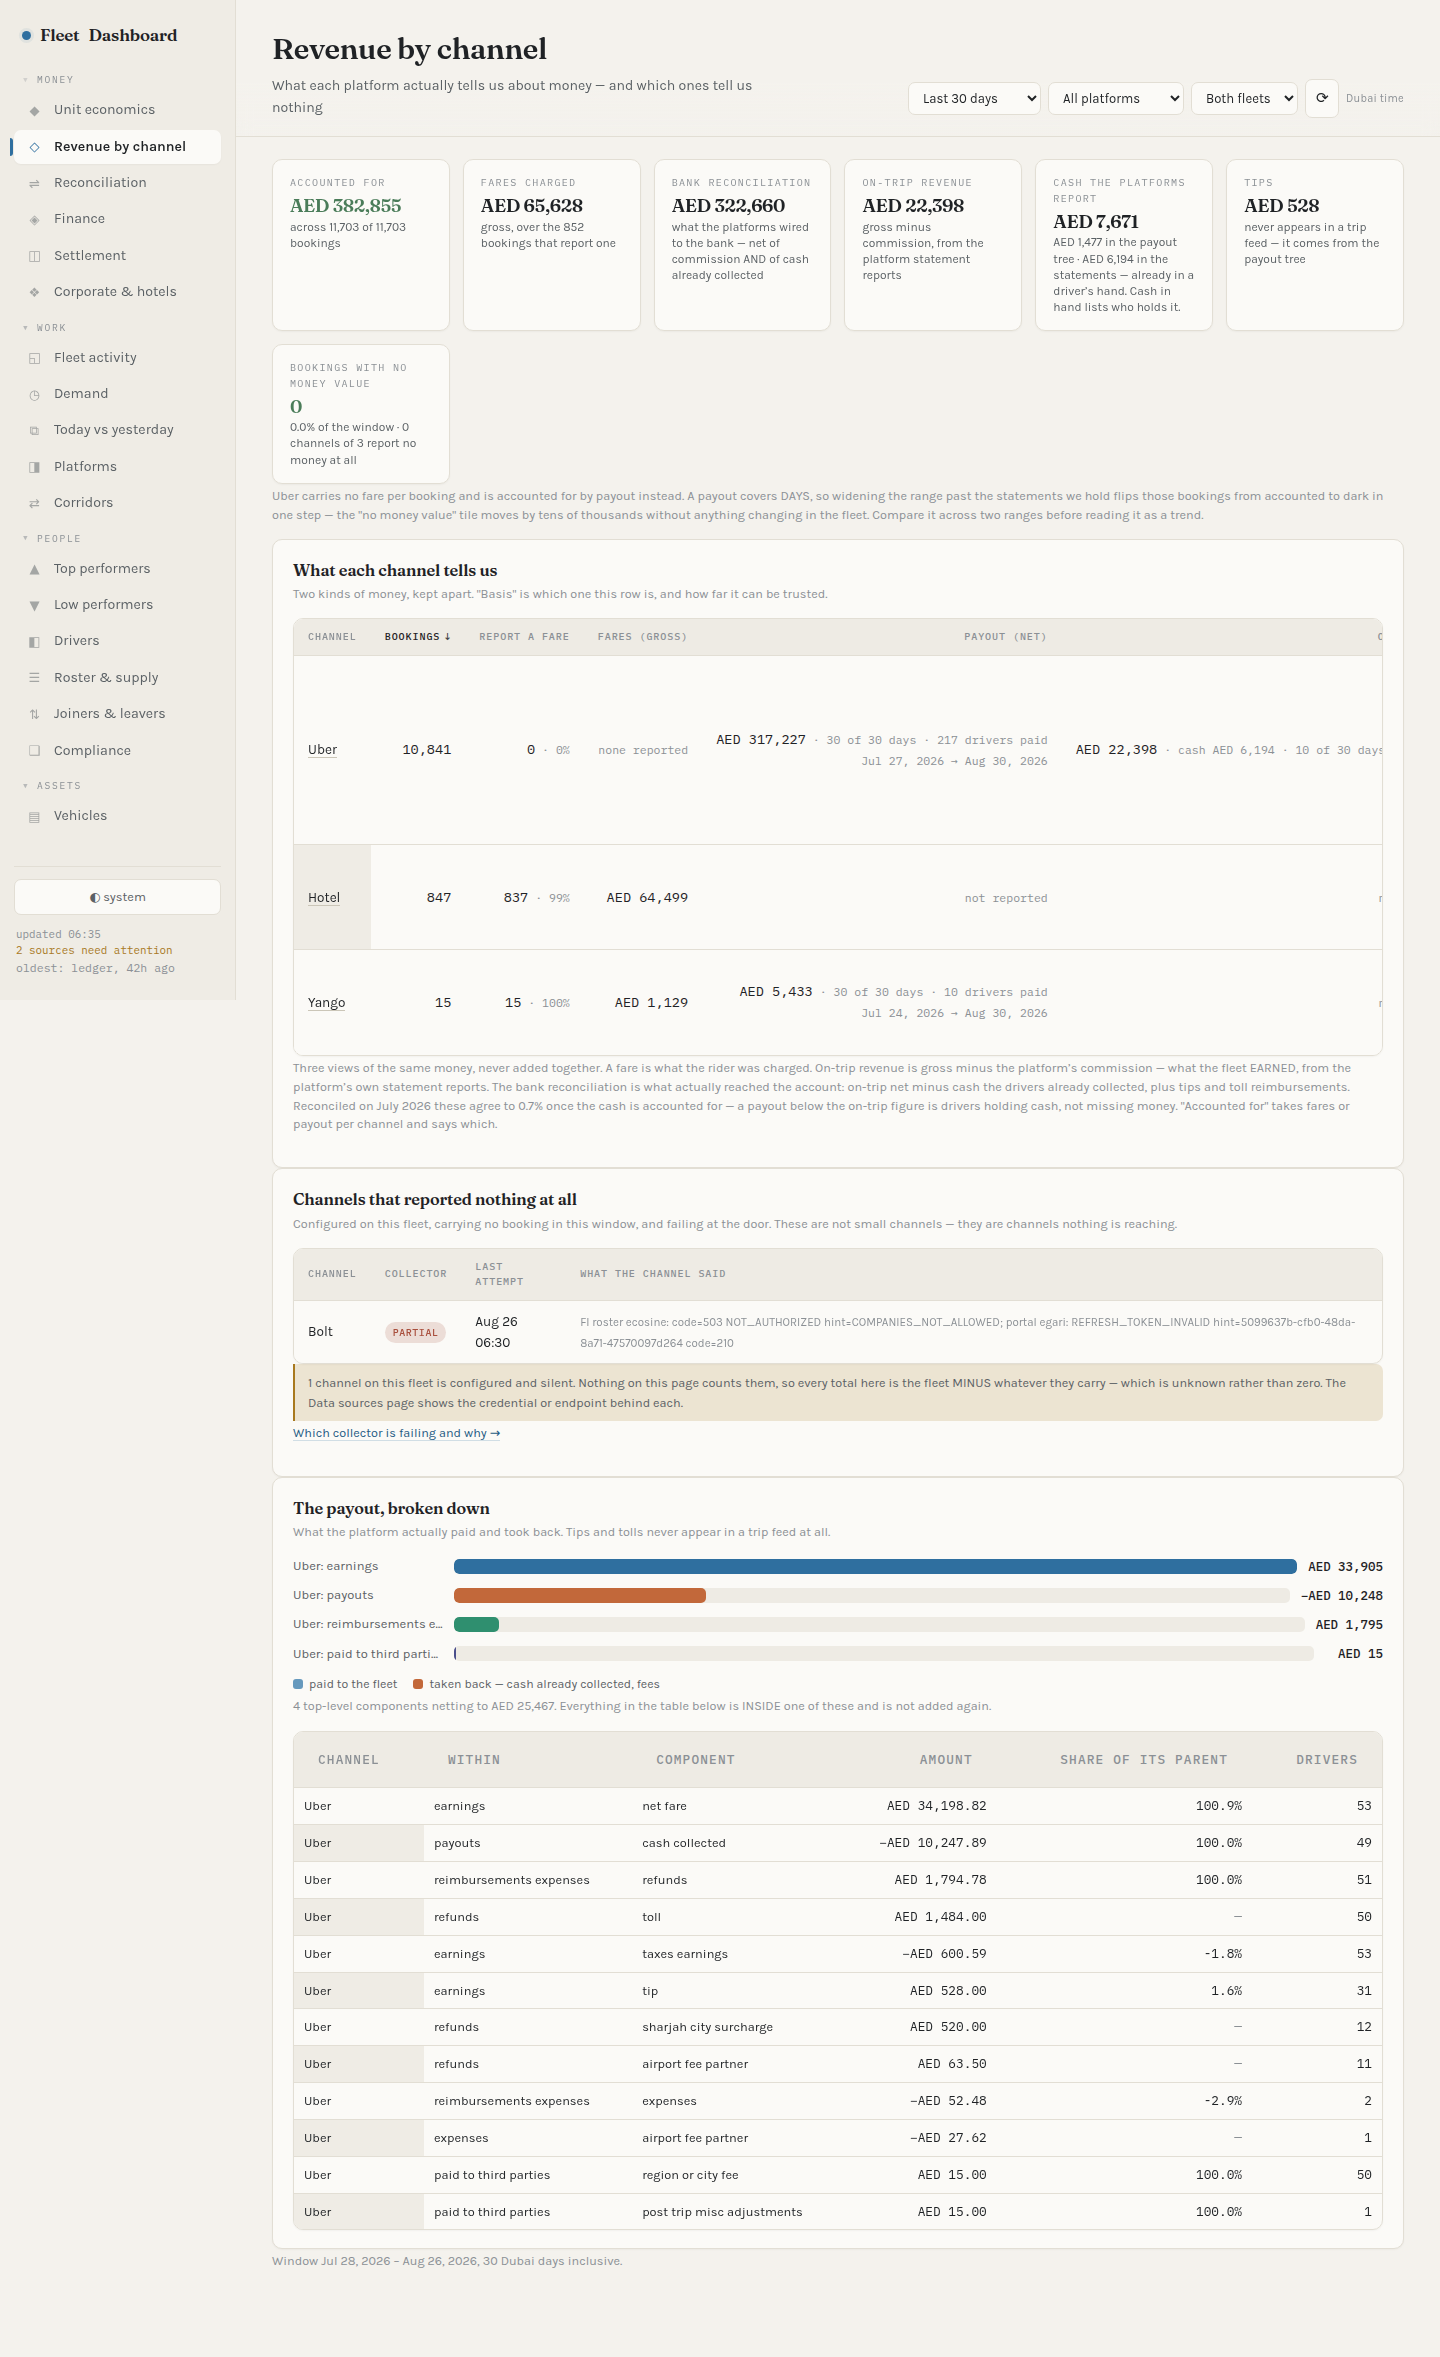
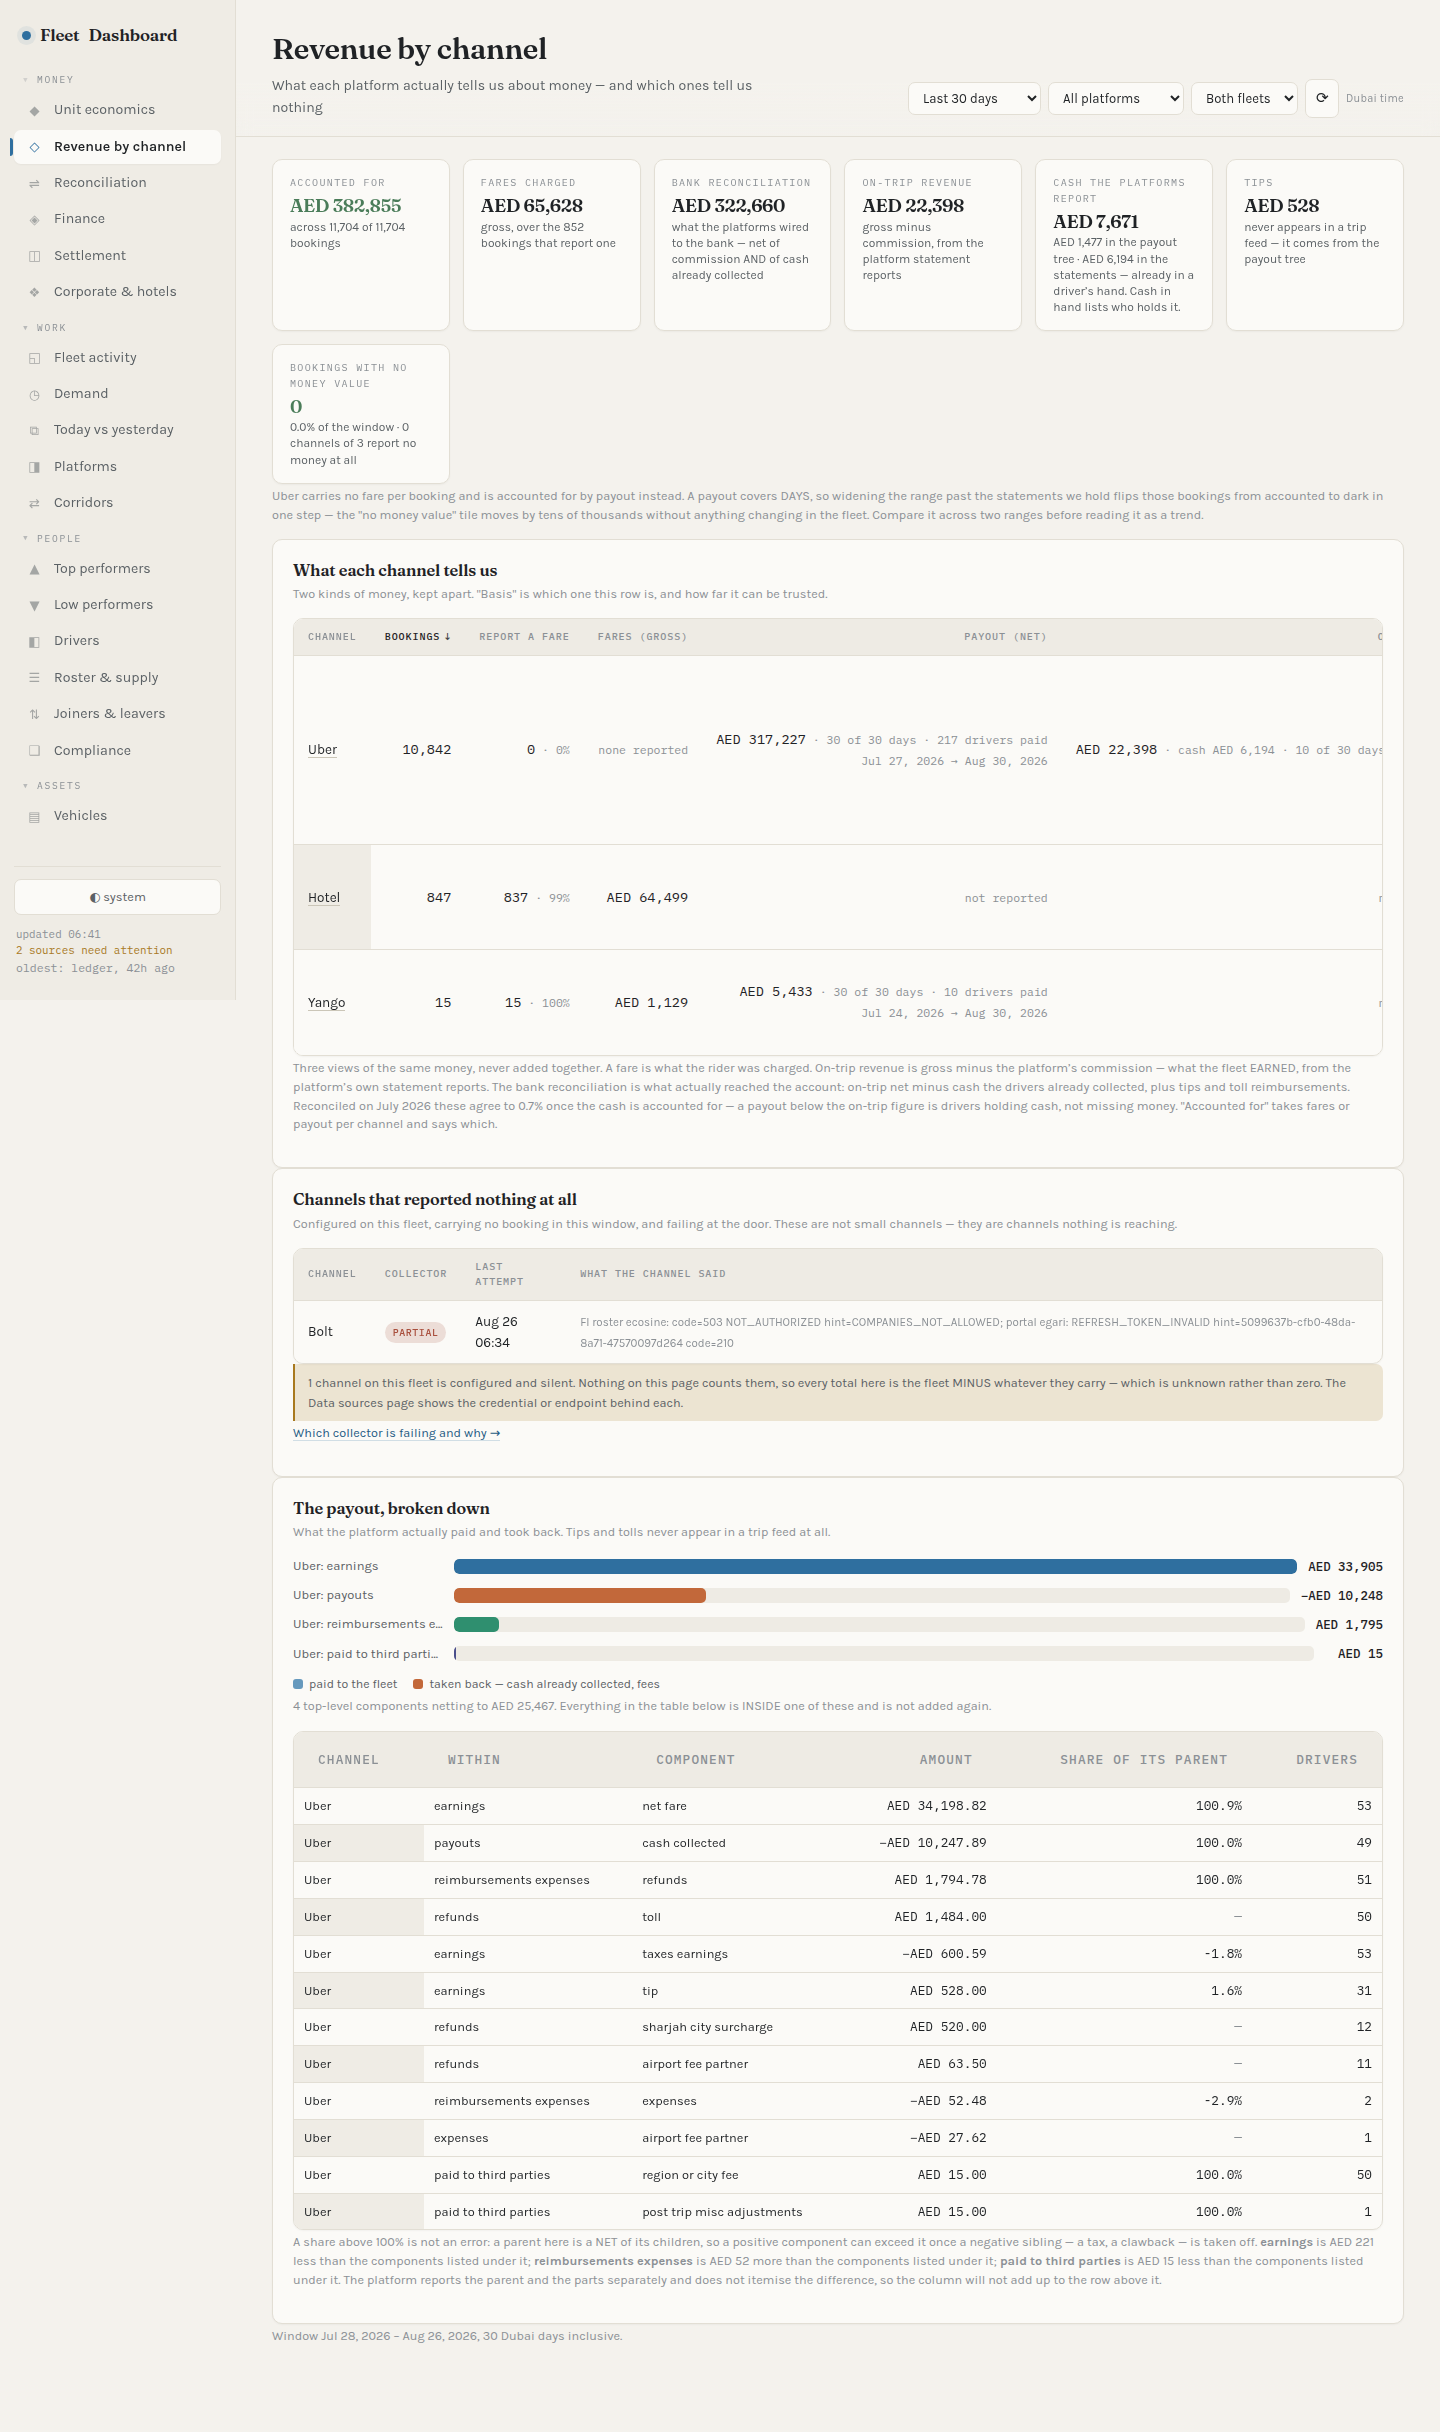
One minus sign, not two
The payout tree puts them in adjacent columns of one table: the Amount
column reads "−AED 600.59" with a true minus (U+2212) and the Share
column "-1.8%" with an ASCII hyphen. The hyphen is narrower and sits
higher, so on a table of thirteen positive figures the negative share is
the one a reader scans past.

pct() builds the string, so the convention belongs there rather than at
the ninety call sites across fifteen views.

Claude-Session: https://claude.ai/code/session_017PxcnnMZS9YdEgsRQYy4oM

diff --git a/collector/api/public/ui.js b/collector/api/public/ui.js
@@ -562,7 +562,15 @@ export const money = (v, cur = 'AED', d = 0) => {
   // "AED 3" — which is a different number.
   return `${cur} ${n.toLocaleString(undefined, { minimumFractionDigits: d, maximumFractionDigits: d })}`;
 };
-export const pct = (v, d = 0) => (v == null || v === '' || !Number.isFinite(Number(v)) ? '—' : `${Number(v).toFixed(d)}%`);
+/* A percentage, with the same minus sign as every other number on the page.
+   ─────────────────────────────────────────────────────────────────────────
+   toFixed emits an ASCII hyphen, and money() emits a true minus (U+2212). The
+   payout tree puts them in adjacent columns of one table — "−AED 600.59" beside
+   "-1.8%" — and the hyphen is narrower and sits higher, so a negative share is
+   the one number in the row a reader can scan past. One convention, applied
+   where the string is built rather than at ninety call sites. */
+export const pct = (v, d = 0) => (v == null || v === '' || !Number.isFinite(Number(v)) ? '—'
+  : `${Number(v).toFixed(d).replace(/^-/, '\u2212')}%`);
 /* An optional tone. Callers were already passing one — a rollup that failed
    and a rollup that is merely stale are different messages and were rendering
    identically, because the second argument was silently dropped. */
